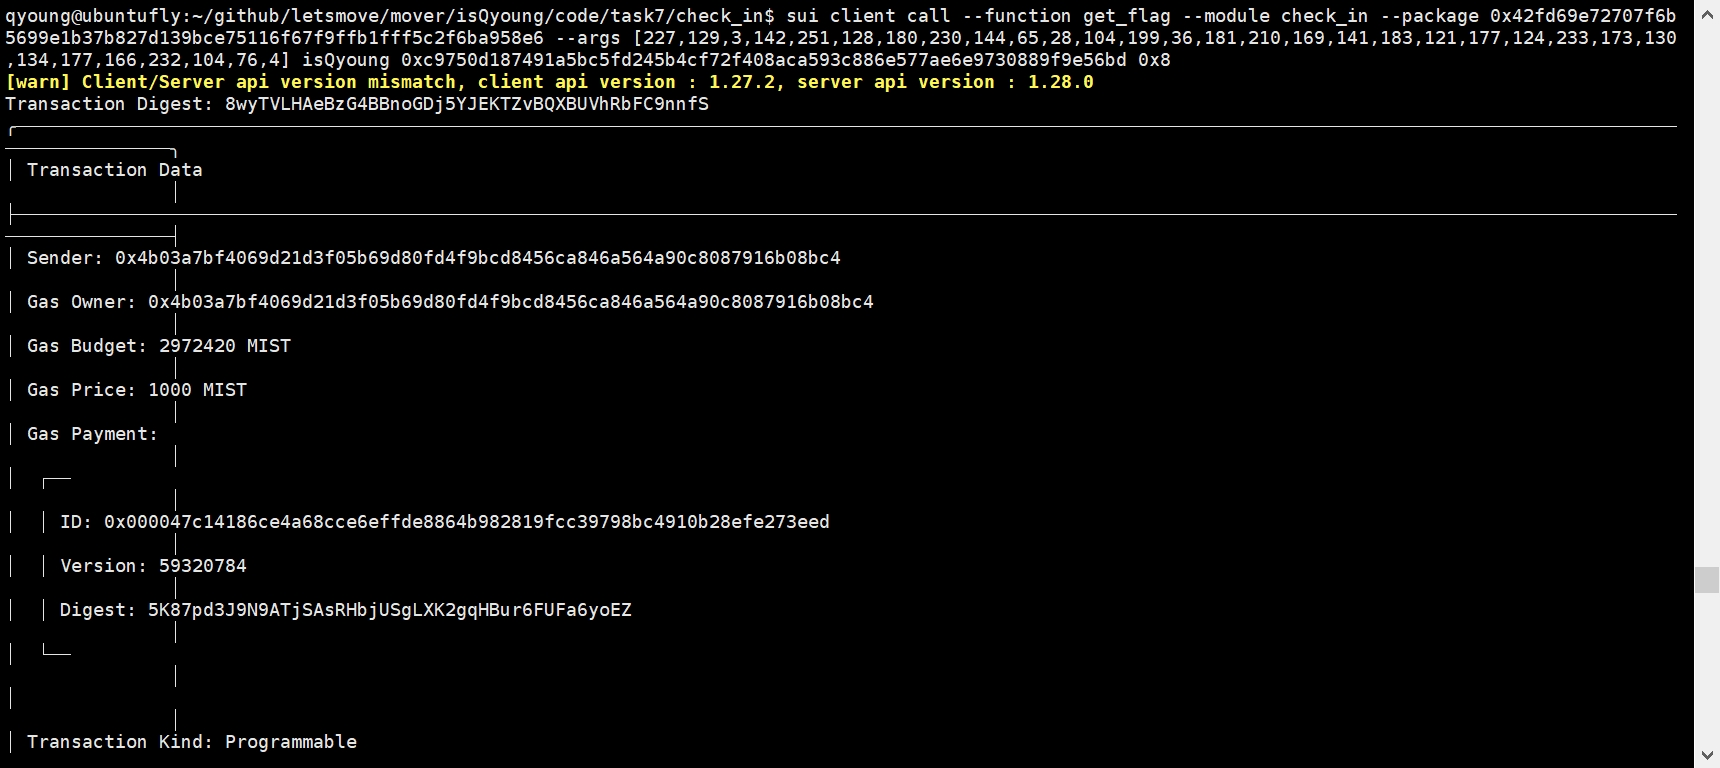
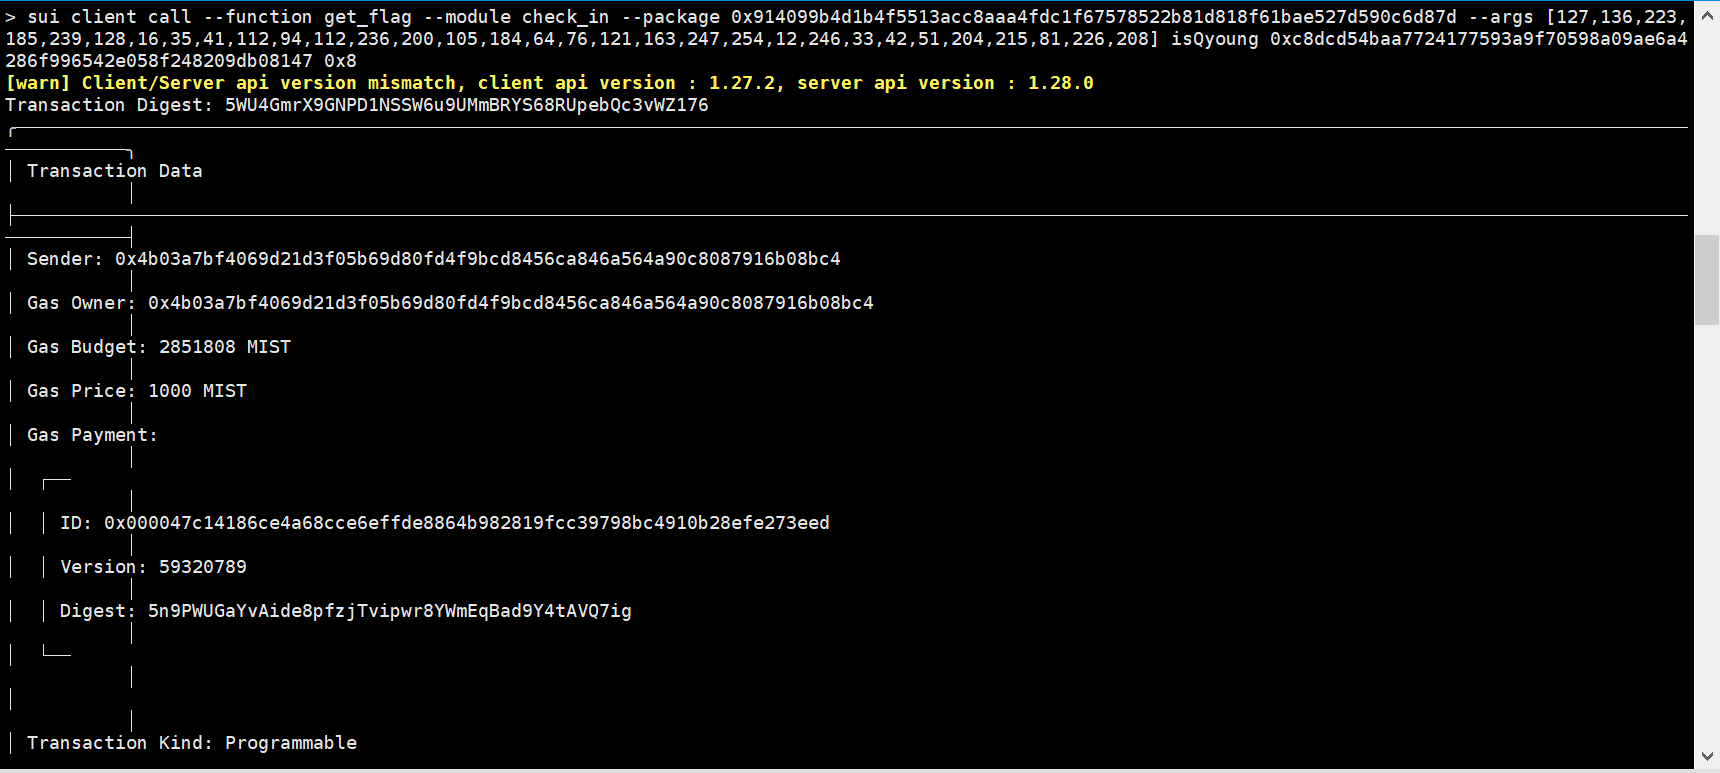
完成 task7

diff --git a/mover/isQyoung/readme.md b/mover/isQyoung/readme.md
@@ -47,7 +47,7 @@
 
 ##   07 Move CTF Check In
 - [] CLI call 截图 : ![截图](./images/getflag.png)
-- [] flag hash : 8wyTVLHAeBzG4BBnoGDj5YJEKTZvBQXBUVhRbFC9nnfS
+- [] flag hash : 5WU4GmrX9GNPD1NSSW6u9UMmBRYS68RUpebQc3vWZ176
 
 ##   08 Move CTF Lets Move
 - [] proof : 
